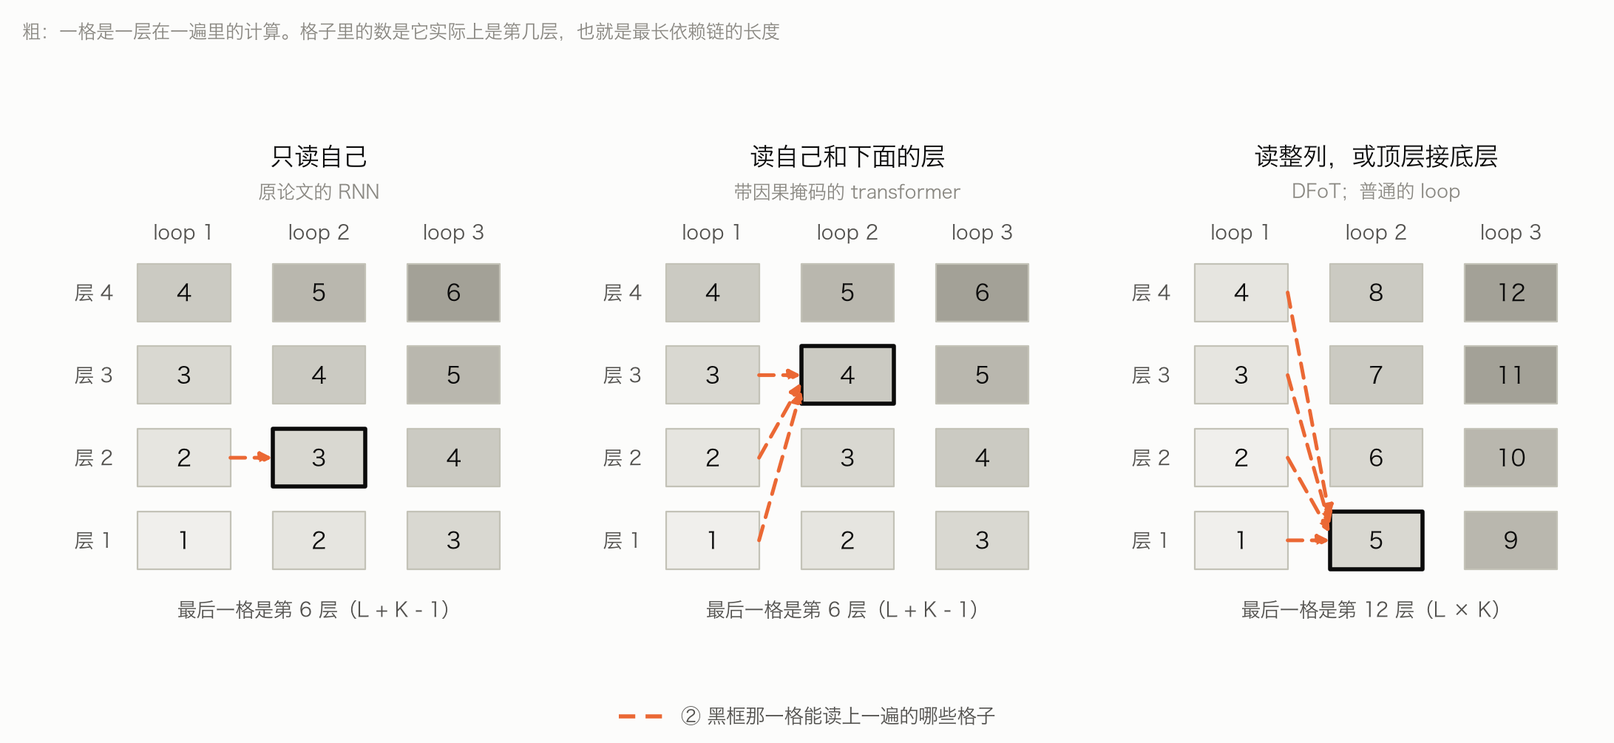
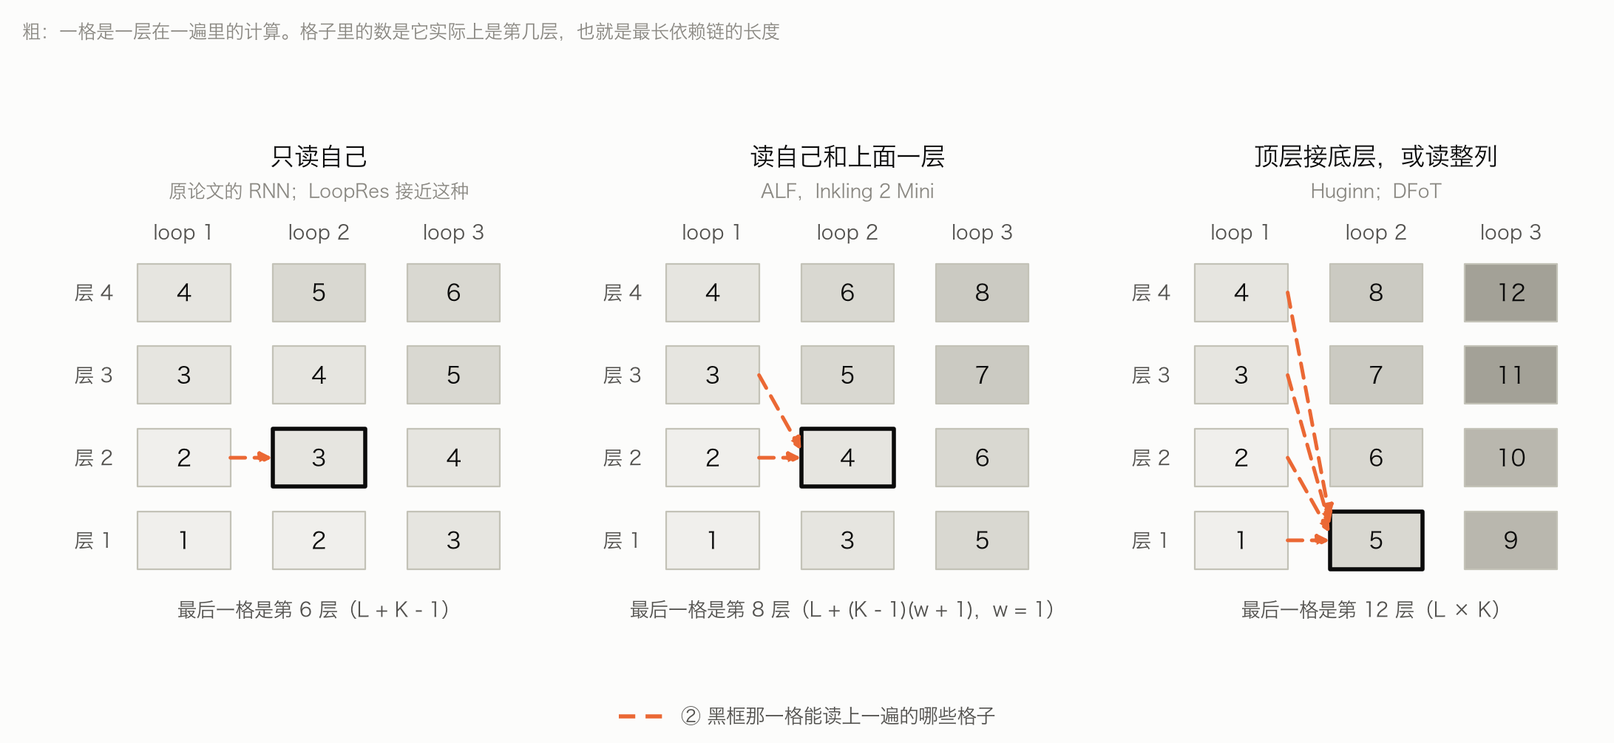
Add attention latent feedback to the diffusion forcing post

diff --git a/blog/diffusion-forcing-duality/index.html b/blog/diffusion-forcing-duality/index.html
@@ -83,7 +83,7 @@
         <li>两边是同样的三段。</li>
         <li>把两边对起来：一个式子，一张字典，一个条件。</li>
         <li>遍与遍之间传什么，走哪里。</li>
-        <li>对偶预言的结构，已经有三个模型造出来了。</li>
+        <li>对偶预言的结构，已经有四个模型造出来了。</li>
         <li>对偶里还空着的一格：每层自己的 loop 次数。</li>
         <li>对不上的地方。</li>
         </ol>
@@ -303,10 +303,11 @@
         </tbody>
         </table>
         </div>
-        <p>两边的递推都只过中间那一段，编码和解码在外面。Loop 这一侧有两条旁证：</p>
+        <p>两边的递推都只过中间那一段，编码和解码在外面。网络这一侧有三条旁证：</p>
         <ul>
         <li><strong>解码器对每一遍都能用。</strong> Goodfire 把最后一块用在中间各遍的状态上，能解出接近最终输出的预测。只用输出层做不到。</li>
         <li><strong>解码器放在递推外面更好。</strong> Thinking Machines 报告，循环中间 12 层比循环最后 12 层在 28 项评测里 27 项更好。</li>
+        <li><strong>最上面的层不值得往回送。</strong> ALF 让每个子层读上一个位置的各层输出。拿掉别的只留最上面四分之一的块，只保住 21% 的贡献；只留中间一个块，保住 40%。作者的解释是顶层专门服务输出头。</li>
         </ul>
         <p><strong>块就是转移方程。</strong> 从一个状态到下一个状态，两边都是调用一整段网络。细到子层也成立：一个子层读 ① 和 ②，算出输出，加进累加和，这就是一次转移（第 4 节）。一个块是 12 个子层的转移接起来，和 RNN 走 12 步可以看成走一大步是一回事。</p>
         <figure>
@@ -481,7 +482,7 @@
         <tr>
         <th>上一遍读谁</th>
         <th>Diffusion forcing 一侧</th>
-        <th>第 2 遍的第 1 层是什么</th>
+        <th>网络这一侧</th>
         <th>最后一格是第几层</th>
         </tr>
         </thead>
@@ -489,42 +490,44 @@
         <tr>
         <td>只读自己</td>
         <td>原论文的 RNN</td>
-        <td>还是第 1 层，再细化一次</td>
+        <td>LoopRes 学出来的接近这种</td>
         <td>\(L + K - 1\)</td>
         </tr>
         <tr>
-        <td>读自己和下面的层</td>
+        <td>自己和下面的层</td>
         <td>带因果掩码的 transformer</td>
-        <td>同上</td>
+        <td>没有意义，见下</td>
         <td>\(L + K - 1\)</td>
         </tr>
         <tr>
-        <td>读整列</td>
-        <td>DFoT，整序列扩散</td>
-        <td>第 \(L+1\) 层</td>
-        <td>\(L \times K\)</td>
+        <td>自己和上面 \(w\) 层</td>
+        <td>不带掩码，读后面 token 的上一稿，DFoT</td>
+        <td>ALF，Inkling 2 Mini 学出来的读法</td>
+        <td>\(L + (K-1)(w+1)\)</td>
         </tr>
         <tr>
         <td>顶层接底层</td>
         <td>没有对应</td>
-        <td>第 \(L+1\) 层</td>
+        <td>Huginn</td>
         <td>\(L \times K\)</td>
         </tr>
         </tbody>
         </table>
         </div>
-        <p>"第几层"指最长依赖链上的层数，\(L\) 是层数，\(K\) 是遍数。按 Inkling 2 Mini 的结构算，前两种是 36 层，后两种是 48 层。</p>
+        <p>"第几层"指最长依赖链上的层数，\(L\) 是层数，\(K\) 是遍数。\(w\) 取 0 是只读自己，\(w\) 取满就是 \(L \times K\)。按 Inkling 2 Mini 的结构算，只读自己是 36 层，读整列是 48 层。</p>
         <figure>
-        <a href="fig5_causal.png" title="点开看大图"><img src="fig5_causal.png" alt="图 5（粗）：上一遍读谁，决定了每一格实际上是第几层。格子里的数是最长依赖链的长度，数值来自核对脚本。前两种读法里，同一条斜线上的格子数字相同。第三种读法里，数字一行接一行往下数。"></a>
-        <figcaption class="note">图 5（粗）：上一遍读谁，决定了每一格实际上是第几层。格子里的数是最长依赖链的长度，数值来自核对脚本。前两种读法里，同一条斜线上的格子数字相同。第三种读法里，数字一行接一行往下数。</figcaption>
+        <a href="fig5_causal.png" title="点开看大图"><img src="fig5_causal.png" alt="图 5（粗）：上一遍读谁，决定了每一格实际上是第几层。格子里的数是最长依赖链的长度，数值来自核对脚本。只读自己时，同一条斜线上的格子数字相同。顶层接底层时，数字一行接一行往下数。读自己和上面一层时在两者之间。"></a>
+        <figcaption class="note">图 5（粗）：上一遍读谁，决定了每一格实际上是第几层。格子里的数是最长依赖链的长度，数值来自核对脚本。只读自己时，同一条斜线上的格子数字相同。顶层接底层时，数字一行接一行往下数。读自己和上面一层时在两者之间。</figcaption>
         </figure>
-        <p>这张图回答的是 loop 算不算一根独立的轴。</p>
+        <p>第二行在网络这一侧没有意义，这一点是 ALF 的论文讲清楚的。下面的层在这一遍里已经算过，再读它们上一遍的值是读旧版本。所以它的规则是：比自己浅的层读这一遍的，自己和比自己深的层读上一遍的，合起来每个深度读到的都是最新的版本。Diffusion forcing 那边的因果掩码有意义，是因为 transformer 的一遍是所有 token 并行算的，没有"这一遍前面的值"可读。</p>
+        <p>这张表回答的是 loop 算不算一根独立的轴。</p>
         <p>如果第 2 遍的第 1 层接的是第 1 遍的最后一层，整个网络可以读成一根更长的深度轴，折成几行写。这时只需要 AttnRes 那半个对偶，权重沿深度周期重复而已，噪声轴没有东西可对。Huginn 就是这种接法。只有当每一层读的是自己上一遍的值，"同一层被细化了几次"才有意义，噪声轴才落得下来。</p>
-        <p>因果也不必是一张掩码。第 2 节说过，DFoT 不带掩码，靠噪声级控制因果。对过来是：下面的层能从上面的层的上一遍读到多少，可以由一个门来控制。Inkling 2 Mini 的门一开始完全关着，模型从纯因果出发，再自己学放开多少。这是我的读法。</p>
-        <p>Diffusion forcing 要因果的理由搬不过来。Token 是先后到来的不同东西，后面的还不存在。层是对同一个 token 的逐级加工，顶层的结论对底层确实有用，没有"不许看"的理由。搬得过来的是因果的好处和代价，第 7 节用得上：</p>
+        <p>学出来的读法靠近"只读自己"那一头。ALF 允许每个子层读上一个位置里自己和所有更深的子层，学出来的权重却集中在一条窄带上：自己这一深度和往上三个子层。把注意力换成固定读最近的四个，还保住 89% 到 94% 的增益。这相当于 \(w = 3\)。</p>
+        <p>因果也不必是一张掩码。第 2 节说过，DFoT 不带掩码，靠噪声级控制因果。对过来是：下面的层能从上面的层的上一遍读到多少，可以由一个门来控制。Inkling 2 Mini 的门一开始完全关着，ALF 的混合比例从 0.01 起步，模型都是从不读上一遍出发，再自己学放开多少。这是我的读法。</p>
+        <p>Diffusion forcing 要因果的理由搬不过来。Token 是先后到来的不同东西，后面的还不存在。层是对同一个 token 的逐级加工，上面的层的结论对下面的层确实有用，没有"不许看"的理由。搬得过来的是因果的好处和代价，第 7 节用得上：</p>
         <ul>
         <li><strong>好处</strong>：低层的输入一旦稳定，它就不用再算，跳过是精确的。CausVid 缓存 KV 用的就是这一点。</li>
-        <li><strong>代价</strong>：每多一遍只多一步串行深度，不因果时多一整段。</li>
+        <li><strong>代价</strong>：每多一遍只多一步串行深度，窗口每宽一层就再多一步。</li>
         </ul>
         <h3>两种读各有原型</h3>
         <p>Loop 加 AttnRes 的网络有两种读。把上面两小节合起来，它们在 diffusion forcing 的 transformer 实现里各有一个原型：</p>
@@ -542,7 +545,7 @@
         <td>CausVid：读前面片段缓存的 KV</td>
         </tr>
         <tr>
-        <td>② 读上一遍的一整列，用深度注意力</td>
+        <td>② 读上一遍的一列，用深度注意力</td>
         <td>DFoT：对整条序列上一遍的值做注意力</td>
         </tr>
         <tr>
@@ -705,7 +708,7 @@
         <figcaption class="note">图 7：并行跑 \(p\) 遍后，哪些位置已经等于逐 token 解码的结果。这是一个随机权重的小网络，8 个位置，数值来自核对脚本。精确的区域每遍向右推进一格。</figcaption>
         </figure>
         <p>实际远不用跑满。Full-bandwidth Transformer 报告 3 到 4 遍后 KV 的相对误差约 1%。IFM 的 latent feedback transformer（代码库叫 LoRM）直接用 4 遍当作逐 token 解码。但这不是白来的：前者发现只用一遍和两遍的 batch 训练时，递推滚过训练深度就会发散，混入 3% 的三遍 batch 才稳定下来。</p>
-        <p>少跑几遍够不够，取决于怎么训。Temporal Residual 比了八种训法。只用两遍训的模型，两遍时 loss 最低，八遍时最差，逐 token 解码的准确率和不带反馈的模型一样。跑六遍、只对最后两遍反传，loss 在三遍到八遍之间只差 0.0001。作者的解释是，截断反传让每一遍学的是：不管拿到什么状态，都把它变好一点。按我的读法，这正是一个去噪器该有的性质，在任何噪声级上都能往前走一步。</p>
+        <p>少跑几遍够不够，取决于怎么训，也取决于送回去的是什么。ALF 报告，多评几遍时它的 loss 继续降，只送顶层状态的 FBT 在第二遍之后回升。Temporal Residual 比了八种训法。只用两遍训的模型，两遍时 loss 最低，八遍时最差，逐 token 解码的准确率和不带反馈的模型一样。跑六遍、只对最后两遍反传，loss 在三遍到八遍之间只差 0.0001。作者的解释是，截断反传让每一遍学的是：不管拿到什么状态，都把它变好一点。按我的读法，这正是一个去噪器该有的性质，在任何噪声级上都能往前走一步。</p>
         <p>训练用整序列并行的遍，解码用自回归。这正是 diffusion forcing 的"训练一次，采样时换 schedule"，已经有人在用了。</p>
         <h3>对偶在这里多给了什么</h3>
         <ul>
@@ -724,13 +727,14 @@
         <li>遍与遍之间有一条连接，读上一遍的一列输出。</li>
         <li>告诉读取方这是第几遍。Diffusion forcing 是把噪声级作为输入的。</li>
         </ol>
-        <p>过去几个月里有三个模型做了前三样，其中一个做了第四样。</p>
+        <p>过去几个月里有四个模型做了前三样，其中一个做了第四样。</p>
         <p><strong>Inkling 2 Mini</strong>（Thinking Machines，11 月 20 日）有 24 层，分成 4 个块，每块 6 层。第 1 块跑一遍，第 2、3 块 loop 三遍，第 4 块跑一遍。块内用 AttnRes。每一遍都从第 1 块算完的状态重新出发，上一遍的结果只从一条路进来：每个子层输入对上一遍的第 2、3 块做一次深度注意力，得到一个 message，再经过一个低秩的门混进去。门一开始把 message 完全挡住，所以训练是从不循环的模型出发的。</p>
         <p><strong>LoopRes</strong>（NUS）在预训练的 Qwen3-1.7B 上微调出 loop。按公开的配置，前 7 层照常跑一遍，中间 14 层分成 2 个块循环 3 遍，之后的层再跑一遍。循环段的每个子层读一次 softmax，源是：前段的输出，上一遍的 2 个块，本遍算完的块，本块目前的累加和。同一遍的源和上一遍的源在同一个 softmax 里，没有门。打分有两项，一项看内容，一项不看：每个源带一个训练出来的 key，按遍、按块分；每个子层的 query 也按遍分。</p>
         <p><strong>LoRM 的 AttnRes 加 latent feedback</strong>（IFM，只有代码）是 134M 的模型，12 层，每 2 层一块。它的遍落在 token 轴上：上一个位置的 6 个块，归一化后过同一个线性层，作为额外的源放进每一次深度读取，和本遍的源在同一个 softmax 里。各遍的参数相同。</p>
+        <p><strong>ALF</strong>（港大等）也把遍放在 token 轴上，在 1.6B 到 4.0B 的 MoE 模型上做。每个子层对上一个位置里自己和更深的子层做一次深度注意力，每个源先过一个低秩的映射，结果按一个可学的比例混进输入。它在标准残差和 AttnRes 两种骨架上都试了。训练时并行跑两遍，每一遍都算 loss；解码一遍，读缓存。</p>
         <figure>
-        <a href="fig8_reads.png" title="点开看大图"><img src="fig8_reads.png" alt="图 8（细）：一个子层在第 2 遍以后怎么读，四种设计并排。Diffusion forcing 的 ② 只有一个源，不用打分。Inkling 2 Mini 把 ① 和 ② 分成两次 softmax，再用门合起来。LoopRes 和 LoRM 把两类源放进同一个 softmax。四家里只有 diffusion forcing 和 LoopRes 把&quot;第几遍&quot;交给了读取方。Inkling 2 Mini、LoopRes 和 LoRM 都按各自的代码画。"></a>
-        <figcaption class="note">图 8（细）：一个子层在第 2 遍以后怎么读，四种设计并排。Diffusion forcing 的 ② 只有一个源，不用打分。Inkling 2 Mini 把 ① 和 ② 分成两次 softmax，再用门合起来。LoopRes 和 LoRM 把两类源放进同一个 softmax。四家里只有 diffusion forcing 和 LoopRes 把"第几遍"交给了读取方。Inkling 2 Mini、LoopRes 和 LoRM 都按各自的代码画。</figcaption>
+        <a href="fig8_reads.png" title="点开看大图"><img src="fig8_reads.png" alt="图 8（细）：一个子层在第 2 遍以后怎么读，四种设计并排。Diffusion forcing 的 ② 只有一个源，不用打分。Inkling 2 Mini 把 ① 和 ② 分成两次 softmax，再用门合起来。LoopRes 和 LoRM 把两类源放进同一个 softmax。图里的四家，只有 diffusion forcing 和 LoopRes 把&quot;第几遍&quot;交给了读取方。Inkling 2 Mini、LoopRes 和 LoRM 都按各自的代码画。ALF 没有画：它像 Inkling 2 Mini，② 单独做一次 softmax，再和 ① 混合。"></a>
+        <figcaption class="note">图 8（细）：一个子层在第 2 遍以后怎么读，四种设计并排。Diffusion forcing 的 ② 只有一个源，不用打分。Inkling 2 Mini 把 ① 和 ② 分成两次 softmax，再用门合起来。LoopRes 和 LoRM 把两类源放进同一个 softmax。图里的四家，只有 diffusion forcing 和 LoopRes 把"第几遍"交给了读取方。Inkling 2 Mini、LoopRes 和 LoRM 都按各自的代码画。ALF 没有画：它像 Inkling 2 Mini，② 单独做一次 softmax，再和 ① 混合。</figcaption>
         </figure>
         <div class="table-responsive">
         <table class="table table-sm">
@@ -741,6 +745,7 @@
         <th>Inkling 2 Mini</th>
         <th>LoopRes</th>
         <th>LoRM</th>
+        <th>ALF</th>
         </tr>
         </thead>
         <tbody>
@@ -750,6 +755,7 @@
         <td>是</td>
         <td>是</td>
         <td>是，遍在 token 轴上</td>
+        <td>没有分段，所有层都读；学出来最上面的层很少被读</td>
         </tr>
         <tr>
         <td>① 读已经定下来的 token</td>
@@ -757,6 +763,7 @@
         <td>块 AttnRes</td>
         <td>块 AttnRes</td>
         <td>块 AttnRes</td>
+        <td>残差流或 AttnRes</td>
         </tr>
         <tr>
         <td>② 读上一遍的值</td>
@@ -764,19 +771,22 @@
         <td>上一遍的 2 个块，单独一次 softmax，经门并入</td>
         <td>上一遍的 2 个块，和 ① 进同一个 softmax</td>
         <td>上一个位置的 6 个块，过线性层后和 ① 进同一个 softmax</td>
+        <td>上一个位置里自己和更深的子层，单独一次 softmax，按比例混入</td>
         </tr>
         <tr>
-        <td>只读自己、读前面的或读整条序列，看实现</td>
+        <td>上一遍读谁，看实现</td>
         <td>上一遍读谁，学出来的</td>
         <td>块 3 读自己，块 2 读上一遍的块 3</td>
         <td>第一个块读自己，第二个块读本遍的第一个块</td>
         <td>前 8 层读上一遍的第 5 到 10 层</td>
+        <td>自己和往上三个子层</td>
         </tr>
         <tr>
         <td>遍落在哪</td>
         <td></td>
         <td>同一个位置，3 遍</td>
         <td>同一个位置</td>
+        <td>token 轴，解码不加遍</td>
         <td>token 轴，解码不加遍</td>
         </tr>
         <tr>
@@ -785,6 +795,7 @@
         <td>是</td>
         <td>是，窗口为 1 时最好</td>
         <td>是</td>
+        <td>是</td>
         </tr>
         <tr>
         <td>③ 噪声级作为输入</td>
@@ -792,6 +803,7 @@
         <td>没有，第 2、3 遍参数相同</td>
         <td>有，key 按遍按块分，query 按遍分</td>
         <td>没有，各遍参数相同</td>
+        <td>没有</td>
         </tr>
         <tr>
         <td>每个 token 独立的噪声级</td>
@@ -799,14 +811,22 @@
         <td>没有。固定 3 遍，研究版整段一起变</td>
         <td>没有，固定</td>
         <td>没有</td>
+        <td>没有</td>
         </tr>
         </tbody>
         </table>
         </div>
-        <p>三家都没有保留普通 loop 那条"拿上一遍的顶层状态接着算"的线。每一遍从前段的输出重新出发，上一遍只通过深度读进来。所以骨架是因果的，上面的层怎么影响下面的层，全看这条读学成什么样。</p>
+        <p>前三家都没有保留普通 loop 那条"拿上一遍的顶层状态接着算"的线。每一遍从前段的输出重新出发，上一遍只通过深度读进来。所以骨架是因果的，上面的层怎么影响下面的层，全看这条读学成什么样。ALF 两条都留着：顶层状态照旧并进下一个 token 的输入，另外再加逐子层的读。</p>
         <p>LoopRes 和 LoRM 把两类源放进一个 softmax，网格递推里的两个求和就共用一个归一化。LoopRes 的打分还依赖遍号，所以 ③ 进到了读的里面。这两点我也核对过（附录 B 的 E2）。</p>
         <p>有三点值得看。</p>
-        <p><strong>上一遍读谁，各家学出来的不一样。</strong> Goodfire 分解了 Inkling 2 Mini 每一层的输入，发现后面的 loop 读上一遍时，读第 3 块多于第 2 块。第 3 块几乎总是读自己上一 loop 的输出，这是"读自己上一遍的值"。第 2 块开头的层读的也主要是上一遍的第 3 块，也就是上一遍的顶部，这是"更深一层"的读法。LoopRes 的分析相反：循环段的第一个块主要在更新自己上一 loop 的输出，第二个块主要依赖本 loop 的第一个块，两个都是因果的读法。LoRM 的第二遍读的是第一遍的第 5 到 10 层，不是顶层，而且只在自己的前 8 层读。Temporal Residual 让每个子层自己学读写的权重，学出来也集中在中间：32 层里读的权重在第 15 层最高，写的强度从第 20 层往上不到 0.1，最上面三分之一的层几乎不写。所以没有一家是纯因果的，也没有一家是纯"顶层接底层"的。</p>
+        <p><strong>上一遍读谁，学出来的都是自己和稍微上面一点。</strong> 第 4 节说过，下面的层读这一遍的就够了，要从上一遍读的是自己和上面的层。四家学出来的读法都符合这条：</p>
+        <ul>
+        <li><strong>Inkling 2 Mini</strong>：Goodfire 分解了每一层的输入。第 3 块几乎总是读自己上一 loop 的输出。第 2 块开头的层读的主要是上一遍的第 3 块，也就是它上面的块。Goodfire 自己的解释也是第 3 块已经能从本遍读到第 2 块。</li>
+        <li><strong>LoopRes</strong>：循环段的第一个块主要在更新自己上一 loop 的输出，第二个块主要依赖本 loop 的第一个块。</li>
+        <li><strong>LoRM</strong>：第二遍读的是第一遍的第 5 到 10 层，不是顶层，而且只在自己的前 8 层读。</li>
+        <li><strong>ALF</strong>：权重集中在自己这一深度和往上三个子层。下半部分的子层拿走了 73% 的混合比例，也就是说主要是浅层在读。</li>
+        </ul>
+        <p>Temporal Residual 让每个子层自己学读写的权重，学出来也集中在中间：32 层里读的权重在第 15 层最高，写的强度从第 20 层往上不到 0.1，最上面三分之一的层几乎不写。所以没有一家是纯"只读自己"的，也没有一家是"顶层接底层"的。</p>
         <p><strong>增益主要来自跨遍的深度读取。</strong> LoopRes 在 Qwen3-1.7B、两倍算力下，7 项评测的平均分是：Huginn 式的 loop 49.0，加上朴素的 AttnRes 53.9，LoopRes 55.8。LoRM 在相同训练算力下的验证 loss：</p>
         <div class="table-responsive">
         <table class="table table-sm">
@@ -836,7 +856,7 @@
         </tbody>
         </table>
         </div>
-        <p>只送回顶层不如不送，送回一整列才有收益。这一档的差距只有 0.004，数据多四倍的那一档是 0.017（2.3390 对 2.3556）。Temporal Residual 在改装预训练模型的设置里有一个同方向的结果：把上一个 token 的顶层状态直接送进输入，只拿到它五分之一的增益。这两条是假设 1 目前的证据，都是他们报告的数字。后一条没有用深度注意力，只说明只送顶层不够。</p>
+        <p>只送回顶层不如不送，送回一整列才有收益。这一档的差距只有 0.004，数据多四倍的那一档是 0.017（2.3390 对 2.3556）。Temporal Residual 在改装预训练模型的设置里有一个同方向的结果：把上一个 token 的顶层状态直接送进输入，只拿到它五分之一的增益。ALF 是规模最大的一组：在三个规模、两种骨架上都好过只送顶层状态的 FBT；重新训练的对照里，把反馈限制成只读顶层状态，loss 高 0.0061 nats；MoE-4.0B 上 17 项下游任务的平均准确率从 45.1% 升到 47.0%，解码多花约 1.1% 的 FLOP。这三条是假设 1 目前的证据，都是他们报告的数字。Temporal Residual 那条没有用深度注意力，只说明只送顶层不够。</p>
         <p><strong>读取方要被告知级别。</strong> LoopRes 发现靠内容分不开同一个块的各次迭代，直接优化的、按 loop 分的 key 才分得开。去掉它，四倍算力下的平均分从 57.8 掉到 55.8。</p>
         <p>Inkling 2 Mini 没有按遍分的参数，但 Goodfire 发现模型自己长出了一个：坐标 \(d_{2027}\) 在前两遍的末尾被写成很大的正值，RMS 归一化后平均 +32.4，一个坐标占了平方范数的 46%；到最后一遍又被清掉。它是下一遍决定"读第 3 块还是第 2 块"时贡献最大的几个坐标之一。Goodfire 的推测是最后一遍之后不再需要跨 loop 通信，所以模型把它抹掉。按我的读法，没人给它级别信号，它就自己腾出一个坐标来记。</p>
         <blockquote class="callout">
@@ -850,7 +870,7 @@
         </ul>
         <p>两边都是先读一个还没细化完的值，之后再修。这也正是 diffusion forcing 本来就允许的事：读还没去噪完的历史。</p>
         <h2>7. 还空着的一格：每层自己的 loop 次数</h2>
-        <p>上一节的表里，最后一行三个模型都是"没有"。而这一行正是 diffusion forcing 名字的来历：训练时每个 token 有独立的噪声级。对偶过来，是每一层有自己的更新次数。</p>
+        <p>上一节的表里，最后一行四个模型都是"没有"。而这一行正是 diffusion forcing 名字的来历：训练时每个 token 有独立的噪声级。对偶过来，是每一层有自己的更新次数。</p>
         <p>最接近的是 Thinking Machines 和 Inkling 2 Mini 一起放出的研究模型 TML-d24-varloop-research。它的中间 12 层在训练时跑 1 到 5 遍，按 1:2:6:2:1 采样，推理时遍数可以自己选。这相当于训练时随机取噪声级，但所有 token 取同一个。Huginn 更早做过同样的事。还空着的是每一层取各自的次数。</p>
         <h3>执行表</h3>
         <p>用第 4 节的记号，再加一张表 \(S_{k,i} \in \{0,1\}\)，表示第 \(k\) 遍里第 \(i\) 个格子是否更新。Diffusion forcing 的 schedule 矩阵和"哪一遍跑哪些层"是同一个对象。现有的架构各是一张填好的表：</p>
@@ -914,7 +934,7 @@
         <li><strong>加噪公式的替代是真的少跑几遍。</strong> "少更新两次的层输出"造不出来，只能按随机的表去执行。</li>
         <li><strong>逐格目标的替代是 coda。</strong> 每种表下最后的状态都过一次 coda，算一次 loss。</li>
         </ul>
-        <p>因果性在这里也有份（第 4 节）。跳过一层只有在它的输入不再变化时才是精确的。下面的层如果读上面的层的上一遍，它的输入每一遍都在变，跳过任何一层都改了函数。只读自己和下面的层时，低层的输入会先稳定下来，表就有一个自然的形状：低层先停，高层多跑。这对应 diffusion forcing 里近处先定、远处后定的走法。CausVid 的逐片段生成就是这样一张阶梯形的表，定下来的片段只算一次。</p>
+        <p>因果性在这里也有份（第 4 节）。跳过一层只有在它的输入不再变化时才是精确的。下面的层如果读上面的层的上一遍，它的输入每一遍都在变，跳过任何一层都改了函数。只读自己时，低层的输入会先稳定下来，表就有一个自然的形状：低层先停，高层多跑。往上读的窗口越宽，这条性质越弱。这对应 diffusion forcing 里近处先定、远处后定的走法。CausVid 的逐片段生成就是这样一张阶梯形的表，定下来的片段只算一次。</p>
         <blockquote class="callout">
         <p><strong>假设 3.</strong> 执行表要可学习，权重得先在随机的表下训过。先训权重，再学表。随机的表对因果的那部分读是安全的；自上而下的那部分读要单独用门控住。</p>
         </blockquote>
@@ -947,7 +967,7 @@
         <p><strong>观察 2.</strong> 现有的 loop 模型，在连线上已经是 diffusion forcing 网格的转置。三段结构相同，块内的 AttnRes 是它的时间轴，遍与遍之间那一列连续状态是它的噪声轴。它们带的东西没有加噪过程，所以没有加噪公式和逐格目标。训练时也只用了一张执行表。</p>
         <p><strong>假设 5.</strong> Diffusion forcing 从"所有 token 同一个噪声级"走到"每个 token 独立"，得到的是采样时任选 schedule 的自由。Loop 模型下一步会走同一段路：从一张设计时填好的执行表，走到在随机的表下训练、事后再选表。</p>
         </blockquote>
-        <p>Inkling 2 Mini 是 Thinking Machines 自己训练的产品模型，LoopRes 是在预训练模型上微调，LoRM 是在研究 latent feedback。三家的出发点不同，却造出了几乎同一个结构。我愿意把这当作这个对偶不只是巧合的一点证据。</p>
+        <p>Inkling 2 Mini 是 Thinking Machines 自己训练的产品模型，LoopRes 是在预训练模型上微调，LoRM 和 ALF 是在研究 latent feedback。四家的出发点不同，却造出了几乎同一个结构。我愿意把这当作这个对偶不只是巧合的一点证据。</p>
         <hr />
         <h2>附录 A：记号</h2>
         <div class="table-responsive">
@@ -1089,7 +1109,7 @@
         </tr>
         <tr>
         <td>F</td>
-        <td>上一遍只读自己或下面的层时，最长依赖链是 \(L+K-1\)；顶层接底层或读整列时是 \(L \times K\)。枚举到 8 层 6 遍</td>
+        <td>上一遍只读自己或下面的层时，最长依赖链是 \(L+K-1\)；读自己和上面 \(w\) 层时是 \(L+(K-1)(w+1)\)；顶层接底层或读整列时是 \(L \times K\)。枚举到 8 层 6 遍</td>
         <td>0</td>
         </tr>
         </tbody>
@@ -1104,6 +1124,7 @@
         <li>Temporal Residual：<a href="https://jackcai.me/writing/temporal-residual/">介绍页</a>，<a href="https://jackcai.me/writing/temporal-residual.pdf">论文</a></li>
         <li>LoopRes：<a href="https://oahzxl.github.io/LoopRes/">项目页</a>，<a href="https://github.com/NUS-HPC-AI-Lab/LoopRes/blob/main/docs/paper.pdf">论文</a>，<a href="https://github.com/NUS-HPC-AI-Lab/LoopRes/blob/main/loopres/model.py">代码</a></li>
         <li>LoRM：<a href="https://github.com/ifm-ai/LoRM">代码仓库</a>，<a href="https://github.com/ifm-ai/LoRM/blob/main/works/attnres_feedback/README.md">AttnRes 加 latent feedback</a>（<a href="https://github.com/ifm-ai/LoRM/blob/main/works/attnres_feedback/model.py">模型代码</a>），<a href="https://x.com/huskydogewoof/status/2123875819089023319">Feedback Shortcut 的推文</a></li>
+        <li>Attention Latent Feedback（ALF）：<a href="https://arxiv.org/abs/2611.31154">arXiv 2611.31154</a></li>
         <li>Full-bandwidth Transformer：<a href="https://arxiv.org/abs/2608.08888">arXiv 2608.08888</a></li>
         <li>Huginn：<a href="https://arxiv.org/abs/2502.05171">arXiv 2502.05171</a></li>
         <li>Loop 模型的并行采样器：<a href="https://arxiv.org/abs/2510.14961">arXiv 2510.14961</a></li>

diff --git a/blog/diffusion-forcing-duality/check_identities.py b/blog/diffusion-forcing-duality/check_identities.py
@@ -19,8 +19,9 @@ E  coarse to fine.  A looped block-AttnRes network written at the granularity of
    is the same grid recurrence with one cell per sublayer; one arrow of the
    coarse picture is one weight shared by every sublayer of the source block.
 F  which cells of the previous pass a cell may read decides how deep the looped
-   stack is: own value or the cells below give L + K - 1, the top cell feeding
-   the bottom one (or the whole column) gives L * K.
+   stack is: own value or the cells below give L + K - 1, own depth and w cells
+   above give L + (K - 1)(w + 1), the top cell feeding the bottom one (or the
+   whole column) gives L * K.
 
 Prints the largest error of each check and ALL CHECKS PASS, or exits non-zero.
 """
@@ -604,6 +605,10 @@ read_rules = {
 for rule_name, (rule, expected) in read_rules.items():
     worst = max(abs(serial_depth(n, k, rule) - expected(n, k)) for n in range(1, 9) for k in range(1, 7))
     report(f"F  serial depth, previous pass read = {rule_name}", float(worst), tol=0.5)
+# own depth and the next w deeper cells, the rule of Attention Latent Feedback (arXiv 2611.31154) with a window
+worst = max(abs(serial_depth(n, k, lambda j, i, n_, w=w: i <= j <= i + w) - (n + (k - 1) * (w + 1)))
+            for n in range(1, 9) for k in range(1, 7) for w in range(n))
+report("F  serial depth, previous pass read = own depth and w cells above: L + (K-1)(w+1)", float(worst), tol=0.5)
 
 if failures:
     print("FAILED:", failures)
